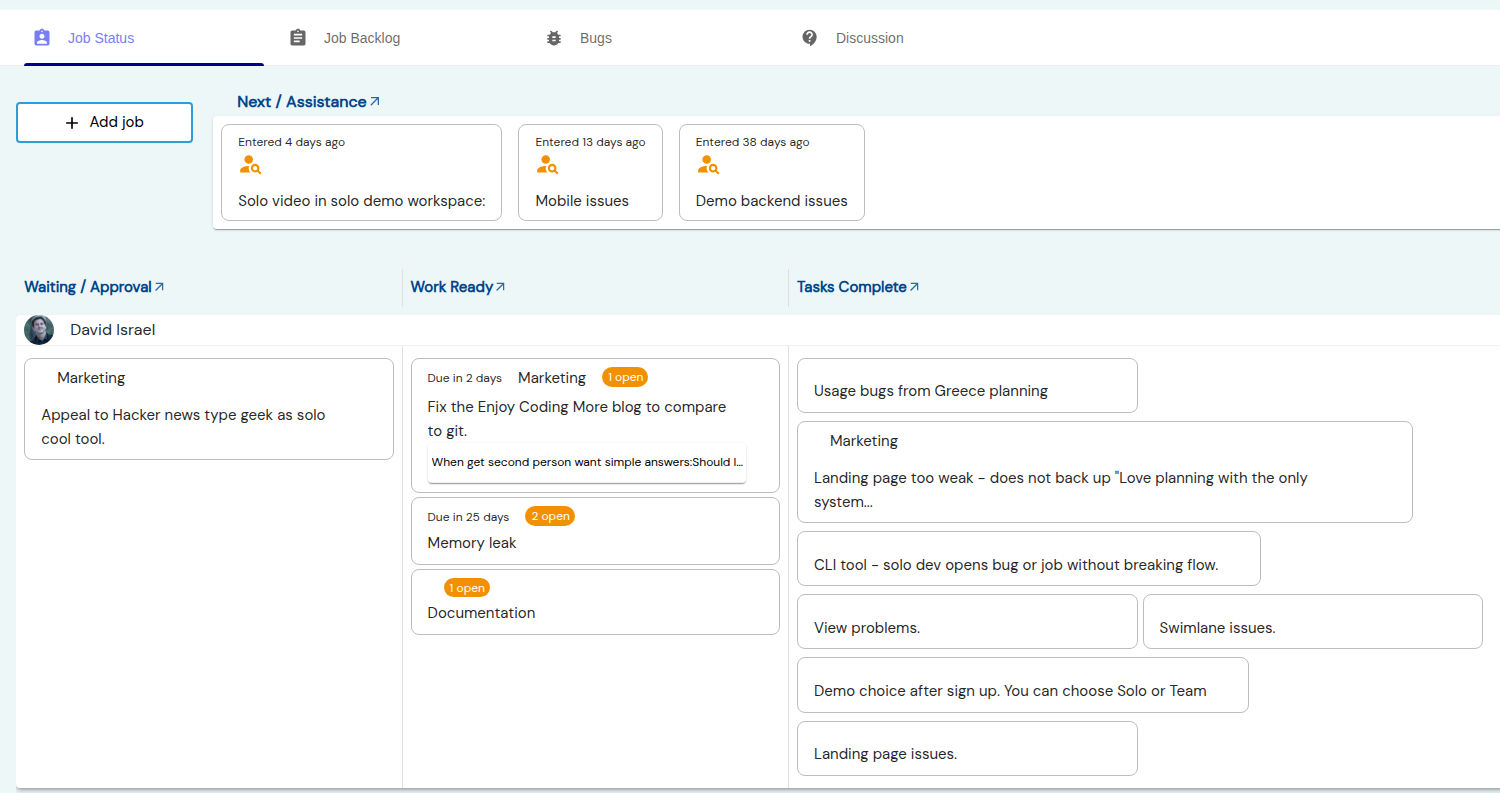
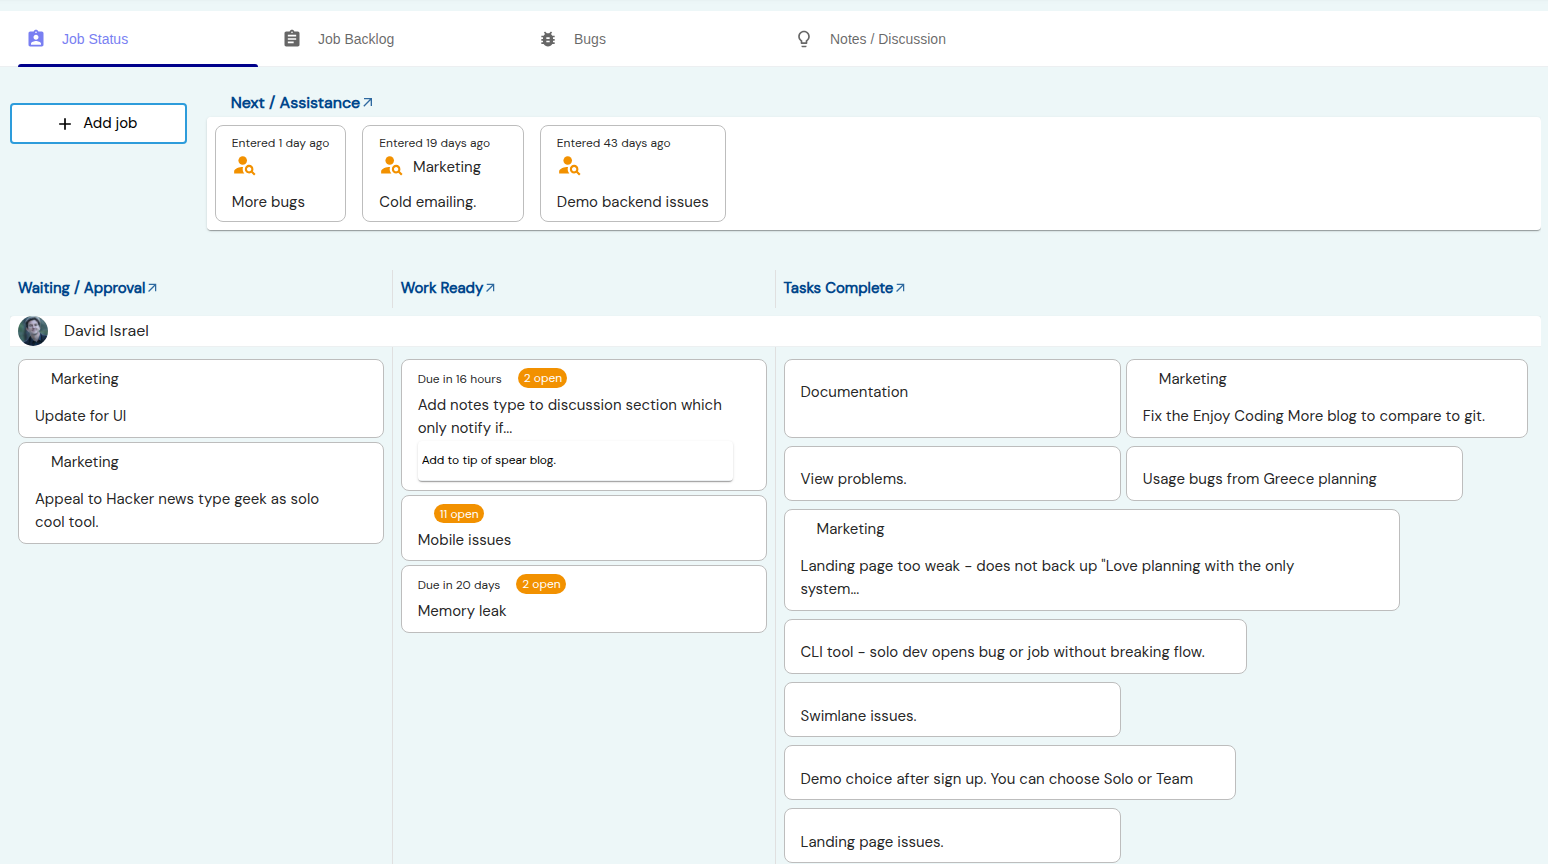
fix: add notes

diff --git a/_posts/2025-01-21-uclusion.md b/_posts/2025-01-21-uclusion.md
@@ -14,15 +14,15 @@ to finish.
 ## Solo developer
 When working solo, the job status tab tells you everything you need to know to start coding.
 <img src="{{ site.baseurl }}/assets/images/mySwimlane.png" alt="Swimlane" />
-Above I can see that I have a job in the Marketing view with a task in progress. I can also see
-that I expected to finish this job in 2 days and that the "Demo backend issues" job has been in
+Above I can see that I have a job with a task in progress to update a blog. I can also see
+jobs from the Marketing view waiting and that the "Demo backend issues" job has been in
 ready to assign backlog for over a month.
 
 There are a number of jobs completed in the last 3 weeks (configurable) in Tasks Complete and
 if I add a new task to one of them it will automatically move back to Work Ready.
 
-If I need to make a note on the go I use the mobile interface (PWA). I can also easily
-open a critical level bug, paste in a screenshot, and fix the bug or move it inside a job later.
+If I need to make a note on the go I use the mobile interface (PWA) and the view Notes / Discussion section. I can also 
+easily open a critical level bug, paste in a screenshot, and fix the bug or move it inside a job later.
 
 The not ready backlog and normal and minor bugs are an easy way to organize jobs and bugs that
 are not a priority - particularly since each view has its own status and backlog.
